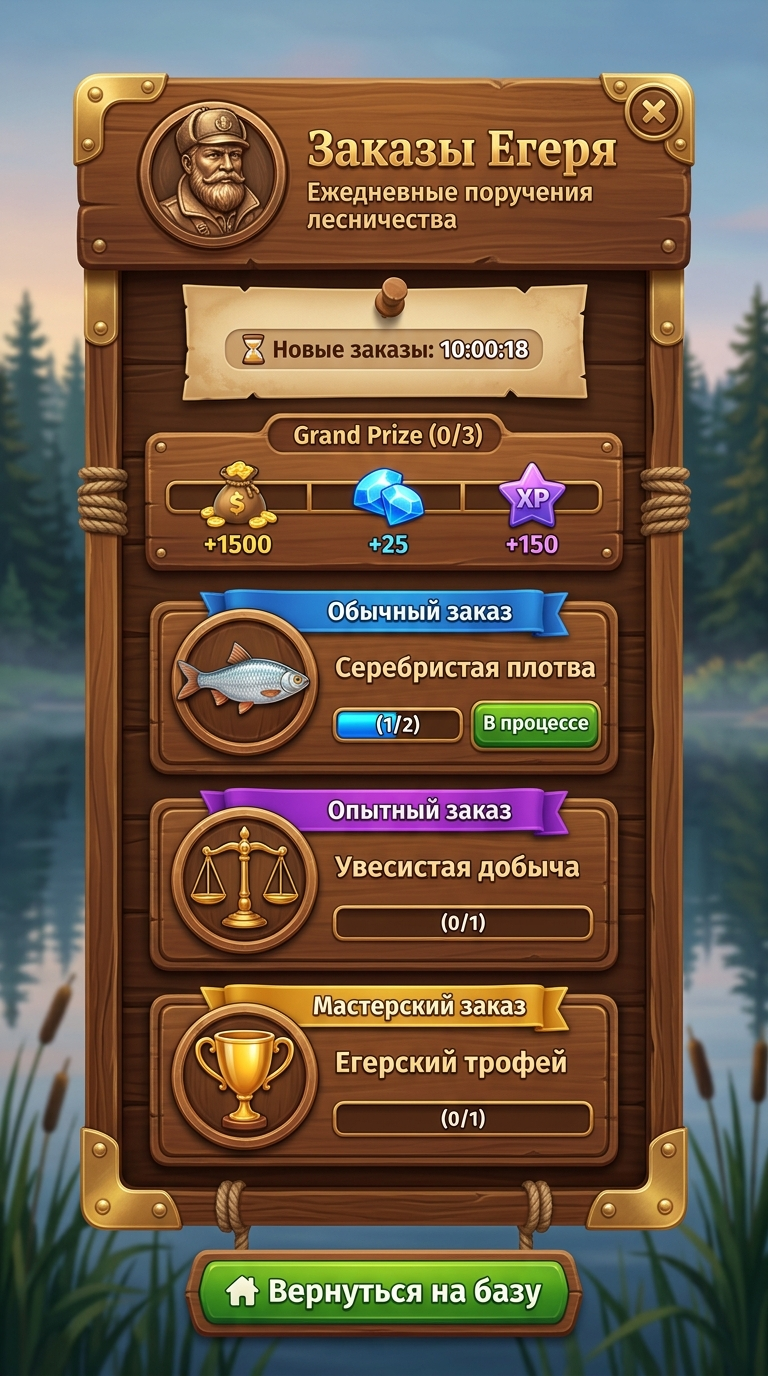
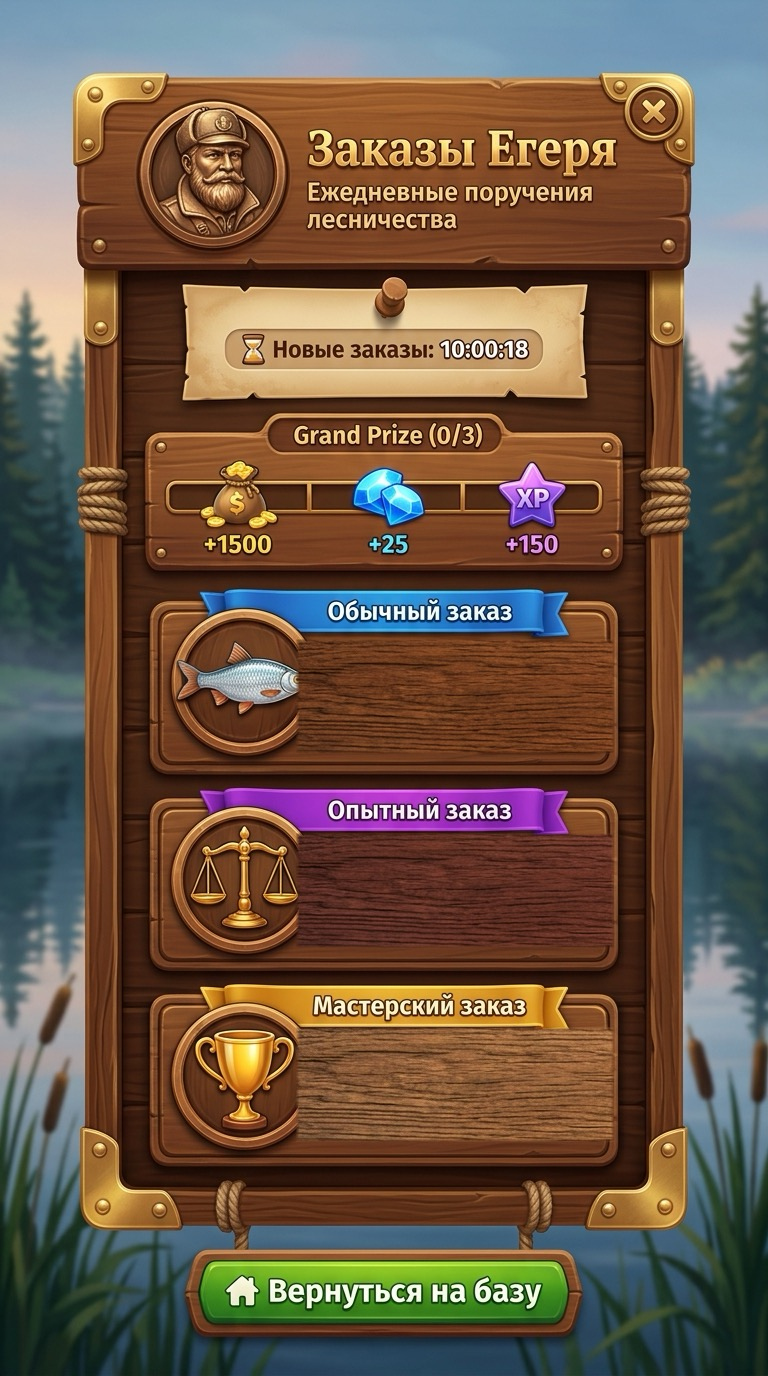
fix(ui): eliminate duplicate ghost text on Ranger Quests with clean wood plaques (v1.5.9.11)

Changed region(s): [[0.375, 0.7188, 0.8125, 0.8438], [0.375, 0.5938, 0.8125, 0.6875], [0.375, 0.4688, 0.8125, 0.5625]]

diff --git a/src/components/RangerQuestsModal.tsx b/src/components/RangerQuestsModal.tsx
@@ -15,12 +15,12 @@ interface RangerQuestsModalProps {
 
 const QUEST_CONFIGS = [
   {
-    titleTop: '45.8%',
-    progressTop: '50.5%',
-    buttonTop: '50.5%',
+    titleTop: '46.0%',
+    progressTop: '50.6%',
+    buttonTop: '50.6%',
   },
   {
-    titleTop: '60.0%',
+    titleTop: '60.1%',
     progressTop: '64.7%',
     buttonTop: '64.7%',
   },
@@ -74,7 +74,7 @@ export const RangerQuestsModal: React.FC<RangerQuestsModalProps> = ({
           filter: 'drop-shadow(0 16px 40px rgba(0, 0, 0, 0.9))',
         }}
       >
-        {/* Кнопка закрытия (X) в правом верхнем углу резной дубовой шапки */}
+        {/* Кнопка закрытия (X) в правом верхнем углу */}
         <button
           onClick={() => {
             triggerHaptic('light');
@@ -95,36 +95,31 @@ export const RangerQuestsModal: React.FC<RangerQuestsModalProps> = ({
           }}
         />
 
-        {/* Живой динамический таймер на пергаментном свитке */}
+        {/* Живые цифры обратного отсчета в пергаментном окне */}
         <div
           style={{
             position: 'absolute',
-            left: '21.0%',
-            top: '22.8%',
-            width: '58.0%',
-            height: '3.8%',
+            left: '56.5%',
+            top: '23.0%',
+            width: '21.0%',
+            height: '3.1%',
             display: 'flex',
             alignItems: 'center',
             justifyContent: 'center',
-            gap: '6px',
-            background: 'linear-gradient(180deg, #c7a473 0%, #dbb988 100%)',
-            borderRadius: '20px',
-            boxShadow: 'inset 0 1px 3px rgba(60, 30, 10, 0.45)',
-            color: '#3b1d07',
+            background: '#ceae7e',
+            color: '#2b1204',
             fontWeight: 900,
-            fontSize: 'clamp(11px, 2.5vw, 15px)',
-            letterSpacing: '0.2px',
+            fontSize: 'clamp(11px, 2.3vw, 15px)',
+            fontFamily: 'system-ui, -apple-system, sans-serif',
+            borderRadius: '6px',
             pointerEvents: 'none',
+            boxShadow: 'inset 0 1px 2px rgba(60, 30, 10, 0.25)',
           }}
         >
-          <span>⏳</span>
-          <span>Новые заказы:</span>
-          <span style={{ color: '#1a0902', fontWeight: 900, fontFamily: 'monospace' }}>
-            {timeUntilMidnight}
-          </span>
+          {timeUntilMidnight}
         </div>
 
-        {/* Карточка премии Grand Prize ({completedCount}/3) */}
+        {/* Премия дня: плашка счетчика выполнения */}
         <div
           style={{
             position: 'absolute',
@@ -224,15 +219,15 @@ export const RangerQuestsModal: React.FC<RangerQuestsModalProps> = ({
               <div
                 style={{
                   position: 'absolute',
-                  left: '38.5%',
+                  left: '40.0%',
                   top: config.titleTop,
-                  width: '43.0%',
+                  width: '39.0%',
                   height: '3.8%',
                   display: 'flex',
                   alignItems: 'center',
-                  color: '#fffef0',
+                  color: '#ffffff',
                   fontWeight: 900,
-                  fontSize: 'clamp(12px, 2.8vw, 17px)',
+                  fontSize: 'clamp(12px, 2.7vw, 16px)',
                   lineHeight: 1.15,
                   textShadow: '0 2px 4px rgba(0, 0, 0, 0.95), 0 0 10px rgba(0, 0, 0, 0.7)',
                   whiteSpace: 'nowrap',
@@ -244,13 +239,13 @@ export const RangerQuestsModal: React.FC<RangerQuestsModalProps> = ({
                 {quest.title}
               </div>
 
-              {/* Прогресс-бар в глубоком латунно-деревянном пазу с ярким неоновым заполнением */}
+              {/* Прогресс-бар в глубоком латунно-деревянном пазу */}
               <div
                 style={{
                   position: 'absolute',
-                  left: '38.4%',
+                  left: '39.0%',
                   top: config.progressTop,
-                  width: '22.1%',
+                  width: '22.0%',
                   height: '3.85%',
                   background: '#2b1407',
                   borderRadius: '14px',
@@ -302,9 +297,9 @@ export const RangerQuestsModal: React.FC<RangerQuestsModalProps> = ({
               <div
                 style={{
                   position: 'absolute',
-                  left: '61.2%',
+                  left: '62.5%',
                   top: config.buttonTop,
-                  width: '19.8%',
+                  width: '18.5%',
                   height: '3.85%',
                   display: 'flex',
                   alignItems: 'center',

diff --git a/src/version.ts b/src/version.ts
@@ -1,1 +1,1 @@
-export const APP_VERSION = 'v1.5.9.10';
+export const APP_VERSION = 'v1.5.9.11';
